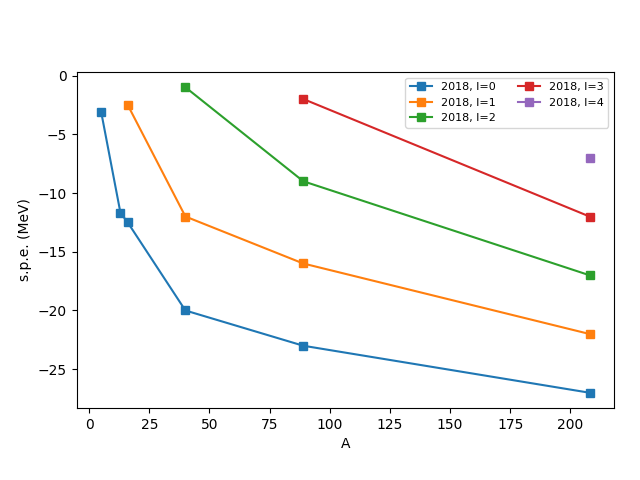
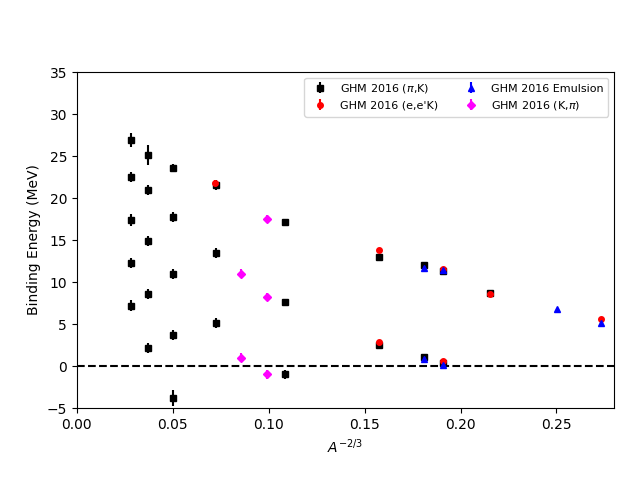
update hypernuclei table

diff --git a/version1.0/nucleardatapy/hnuc/setup_spe_exp.py b/version1.0/nucleardatapy/hnuc/setup_spe_exp.py
@@ -16,7 +16,7 @@ def spe_exp_tables():
     #
     if nuda.env.verb: print("\nEnter spe_exp_tables()")
     #
-    tables = [ '2018' ]
+    tables = [ '2016-GHM-piK', '2016-GHM-eeK', '2016-GHM-emul', '2016-GHM-Kpi' ]
     #
     print('tables available in the toolkit:',tables)
     tables_lower = [ item.lower() for item in tables ]
@@ -42,7 +42,7 @@ class setupSPEExp():
    **Attributes:**
    """
    #
-   def __init__( self, table = '2018' ):
+   def __init__( self, table = '2016-GHM-piK' ):
       """
       Parameters
       ----------
@@ -62,6 +62,7 @@ class setupSPEExp():
       nucsps = []
       nucell = []
       nucspe = []
+      nucspe_err = []
       #
       tables, tables_lower = spe_exp_tables()
       #
@@ -71,74 +72,130 @@ class setupSPEExp():
          print('-- Exit the code --')
          exit()
       #
-      if table.lower() == '2018':
+      if table.lower() == '2016-ghm-pik':
          #
-         file_in = os.path.join(nuda.param.path_data,'hnuclei/2018.csv')
+         file_in = os.path.join(nuda.param.path_data,'hnuclei/2016-GHM-piK.csv')
          if nuda.env.verb: print('Reads file:',file_in)
          #: Attribute providing the full reference to the paper to be citted.
-         self.ref = ''
+         self.ref = 'Gal, Hungerford, and Millener, Rev. Mod. Phys. 88, 1 (2016)'
          #: Attribute providing the label the data is references for figures.
-         self.label = '2018'
+         self.label = "GHM 2016 ($\pi$,K)"
          #: Attribute providing additional notes about the data.
          self.note = "write here notes about this table."
+         #: Attribute color of points
+         self.color='k'
+         #: marker shape
+         self.mark='s'
          #
-         with open(file_in,'r') as file:
-            for line in file:
-               #print('line:',line)
-               if '#' in line:
-                  continue
-               #print('line:',line)
-               linesplit = line.split(',')
-               #print('split:',linesplit)
-               #print('line.split:',linesplit)
-               if len(linesplit) > 1:
-                  nucZ.append(linesplit[0])
-                  nucSymb.append(linesplit[1])
-                  nucN.append(linesplit[2])
-                  nucsps.append(linesplit[3])
-                  nucell.append(linesplit[4])
-                  nucspe.append(linesplit[5])
-               else:
-                  break
-               #
-         nucZ = np.array( nucZ, dtype = int )
-         nucN = np.array( nucN, dtype = int )
-         nucA = nucZ + nucN + np.ones(len(nucN))
-         nucell = np.array( nucell, dtype = int )
-         nucspe = np.array( nucspe, dtype = float )
+      elif table.lower() == '2016-ghm-eek':
          #
-         self.lmin = min(nucell)
-         self.lmax = max(nucell)
-         # create dictionary spe
-         self.marker = {}
-         #: Attribute A (mass of the nucleus).
-         self.A = {}
-         #: Attribute Z (charge of the nucleus).
-         self.Z = {}
-         #: Attribute N (number of neutrons of the nucleus).
-         self.N = {}
-         #: Attribue spe in MeV.
-         self.spe = {}
-         for ell in range(self.lmin,self.lmax+1):
-            #print('ell:',ell)
-            self.marker[ell] = 's'
-            self.A[ell] = []
-            self.Z[ell] = []
-            self.N[ell] = []
-            self.spe[ell] = []
-            for ind,lstt in enumerate(nucell):
-               if ell == lstt:
-                  self.A[ell].append(nucA[ind])
-                  self.Z[ell].append(nucZ[ind])
-                  self.N[ell].append(nucN[ind])
-                  self.spe[ell].append(nucspe[ind])
-            print('ell:',ell,' A:',self.A[ell],' spe:',self.spe[ell])
+         file_in = os.path.join(nuda.param.path_data,'hnuclei/2016-GHM-eeK.csv')
+         if nuda.env.verb: print('Reads file:',file_in)
+         #: Attribute providing the full reference to the paper to be citted.
+         self.ref = 'Gal, Hungerford, and Millener, Rev. Mod. Phys. 88, 1 (2016)'
+         #: Attribute providing the label the data is references for figures.
+         self.label = "GHM 2016 (e,e'K)"
+         #: Attribute providing additional notes about the data.
+         self.note = "write here notes about this table."
+         #: Attribute color of points
+         self.color='red'
+         #: marker shape
+         self.mark='o'
          #
+      elif table.lower() == '2016-ghm-emul':
+         #
+         file_in = os.path.join(nuda.param.path_data,'hnuclei/2016-GHM-emul.csv')
+         if nuda.env.verb: print('Reads file:',file_in)
+         #: Attribute providing the full reference to the paper to be citted.
+         self.ref = 'Gal, Hungerford, and Millener, Rev. Mod. Phys. 88, 1 (2016)'
+         #: Attribute providing the label the data is references for figures.
+         self.label = "GHM 2016 Emulsion"
+         #: Attribute providing additional notes about the data.
+         self.note = "write here notes about this table."
+         #: Attribute color of points
+         self.color='blue'
+         #: marker shape
+         self.mark='^'
+         #
+      elif table.lower() == '2016-ghm-kpi':
+         #
+         file_in = os.path.join(nuda.param.path_data,'hnuclei/2016-GHM-Kpi.csv')
+         if nuda.env.verb: print('Reads file:',file_in)
+         #: Attribute providing the full reference to the paper to be citted.
+         self.ref = 'Gal, Hungerford, and Millener, Rev. Mod. Phys. 88, 1 (2016)'
+         #: Attribute providing the label the data is references for figures.
+         self.label = "GHM 2016 (K,$\pi$)"
+         #: Attribute providing additional notes about the data.
+         self.note = "write here notes about this table."
+         #: Attribute color of points
+         self.color='magenta'
+         #: marker shape
+         self.mark='D'
+         #
+      #
+      with open(file_in,'r') as file:
+         for line in file:
+            #print('line:',line)
+            if '#' in line:
+               continue
+            #print('line:',line)
+            linesplit = line.split(',')
+            #print('split:',linesplit)
+            #print('line.split:',linesplit)
+            if len(linesplit) > 1:
+               nucZ.append(linesplit[0])
+               nucSymb.append(linesplit[1])
+               nucN.append(linesplit[2])
+               nucsps.append(linesplit[3])
+               nucell.append(linesplit[4])
+               nucspe.append(linesplit[5])
+               nucspe_err.append(linesplit[6])
+            else:
+               break
+            #
+      nucZ = np.array( nucZ, dtype = int )
+      nucN = np.array( nucN, dtype = int )
+      nucA = nucZ + nucN + np.ones(len(nucN))
+      nucell = np.array( nucell, dtype = int )
+      nucspe = np.array( nucspe, dtype = float )
+      nucspe_err = np.array( nucspe_err, dtype = float )
+      #
+      self.lmin = min(nucell)
+      self.lmax = max(nucell)
+      # create dictionary spe
+      self.marker = {}
+      #: Attribute A (mass of the nucleus).
+      self.A = {}
+      #: Attribute Z (charge of the nucleus).
+      self.Z = {}
+      #: Attribute N (number of neutrons of the nucleus).
+      self.N = {}
+      #: Attribue spe in MeV.
+      self.spe = {}
+      #: Attribue spe error in MeV.
+      self.spe_err = {}
+      for ell in range(self.lmin,self.lmax+1):
+         #print('ell:',ell)
+         self.marker[ell] = self.mark
+         self.A[ell] = []
+         self.Z[ell] = []
+         self.N[ell] = []
+         self.spe[ell] = []
+         self.spe_err[ell] = []
+         for ind,lstt in enumerate(nucell):
+            if ell == lstt:
+               self.A[ell].append(nucA[ind])
+               self.Z[ell].append(nucZ[ind])
+               self.N[ell].append(nucN[ind])
+               self.spe[ell].append(nucspe[ind])
+               self.spe_err[ell].append(nucspe_err[ind])
+         print('ell:',ell,' A:',self.A[ell],' spe:',self.spe[ell],'+-',self.spe_err[ell],' MeV')
+      #
       #: Attribute spe unit.
       self.spe_unit = 'MeV'
       #
       if nuda.env.verb: print("Exit setupSPEExp()")
-   #
+      #
    #
    def print_outputs( self ):
       """
@@ -159,6 +216,7 @@ class setupSPEExp():
          if any(self.Z): print(f"   Z: {self.Z[ell]}")
          if any(self.N): print(f"   N: {self.N[ell]}")
          if any(self.spe): print(f"   spe: {self.spe[ell]}")
+         if any(self.spe_err): print(f"   spe_err: {self.spe_err[ell]}")
       #
       if nuda.env.verb: print("Exit print_outputs()")
       #

diff --git a/version1.0/nucleardatapy_samples/plots/plot_hnuc_setupSPEExp.py b/version1.0/nucleardatapy_samples/plots/plot_hnuc_setupSPEExp.py
@@ -17,11 +17,12 @@ def plot_hnuc_setupSPEExp( pname, tables ):
     fig.tight_layout() # Or equivalently,  "plt.tight_layout()"
     fig.subplots_adjust(left=0.12, bottom=0.15, right=None, top=0.85, wspace=0.3, hspace=0.3)
     #
-    axs.set_ylabel(r's.p.e. (MeV)')
-    axs.set_xlabel(r'A')
-    #axs[0].set_xlim([88, 96])
-    #axs[0].set_ylim([4.2, 4.5])
+    axs.set_ylabel(r'Binding Energy (MeV)')
+    axs.set_xlabel(r'$A^{-2/3}$')
+    axs.set_xlim([0.0, 0.28])
+    axs.set_ylim([-5.0, 35.0])
     #
+    axs.plot( [0.0,0.28], [0.0,0.0], color='k', linestyle='dashed' )
     for table in tables:
         #
         hnuc = nuda.hnuc.setupSPEExp( table = table )
@@ -36,7 +37,13 @@ def plot_hnuc_setupSPEExp( pname, tables ):
         #lmin = min(hnuc.spe.keys())
         #lmax = max(hnuc.spe.keys())
         for ell in range(hnuc.lmin,hnuc.lmax+1):
-            axs.plot( hnuc.A[ell], hnuc.spe[ell], marker=hnuc.marker[ell], label=hnuc.label+', l='+str(ell) )
+            x = np.array( hnuc.A[ell], dtype=float)
+            y = np.array( hnuc.spe[ell], dtype=float)
+            dy = np.array( hnuc.spe_err[ell], dtype=float)
+            if ell == 0:
+                axs.errorbar( x**(-0.6666), -y, yerr=dy, marker=hnuc.marker[ell], color=hnuc.color, label=hnuc.label, ms=4, ls='none' )
+            else:
+                axs.errorbar( x**(-0.6666), -y, yerr=dy, marker=hnuc.marker[ell], color=hnuc.color, ms=4, ls='none' )
         #
     #
     #axs.text(0.15,12,r'$K_{sym}$='+str(int(Ksym))+' MeV',fontsize='12')

diff --git a/version1.0/nucleardatapy_samples/samples/sample_hnuc_setupSPEExp.py b/version1.0/nucleardatapy_samples/samples/sample_hnuc_setupSPEExp.py
@@ -11,15 +11,17 @@ def main():
     print("Enter sample_hnuc_setupSPEExp.py:")
     print(50*'-')
     #
-    #tables = [ '2013-Angeli' ]
-    tables, tables_lower = nuda.hnuc.spe_exp_tables()
+    tables = [ '2016-GHM-piK' ]
+    #tables, tables_lower = nuda.hnuc.spe_exp_tables()
     #
+    print('run over tables:',tables)
     for table in tables:
         #
         hnuc = nuda.hnuc.setupSPEExp( table = table )
         print('Z:',hnuc.Z)
         print('A:',hnuc.A)
         print('spe:',hnuc.spe)
+        print('spe_err:',hnuc.spe_err)
         if nuda.env.verb_output: hnuc.print_outputs( )
     #
     print(50*'-')
